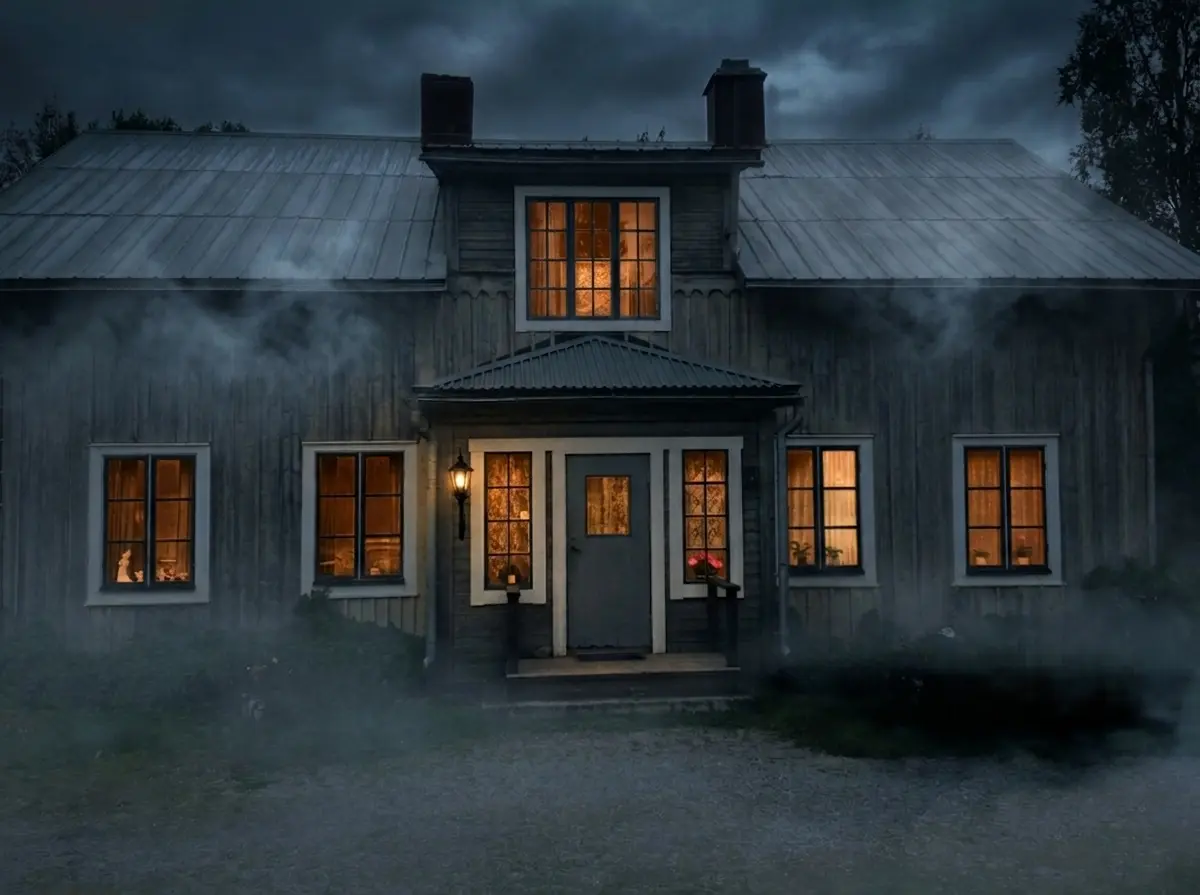
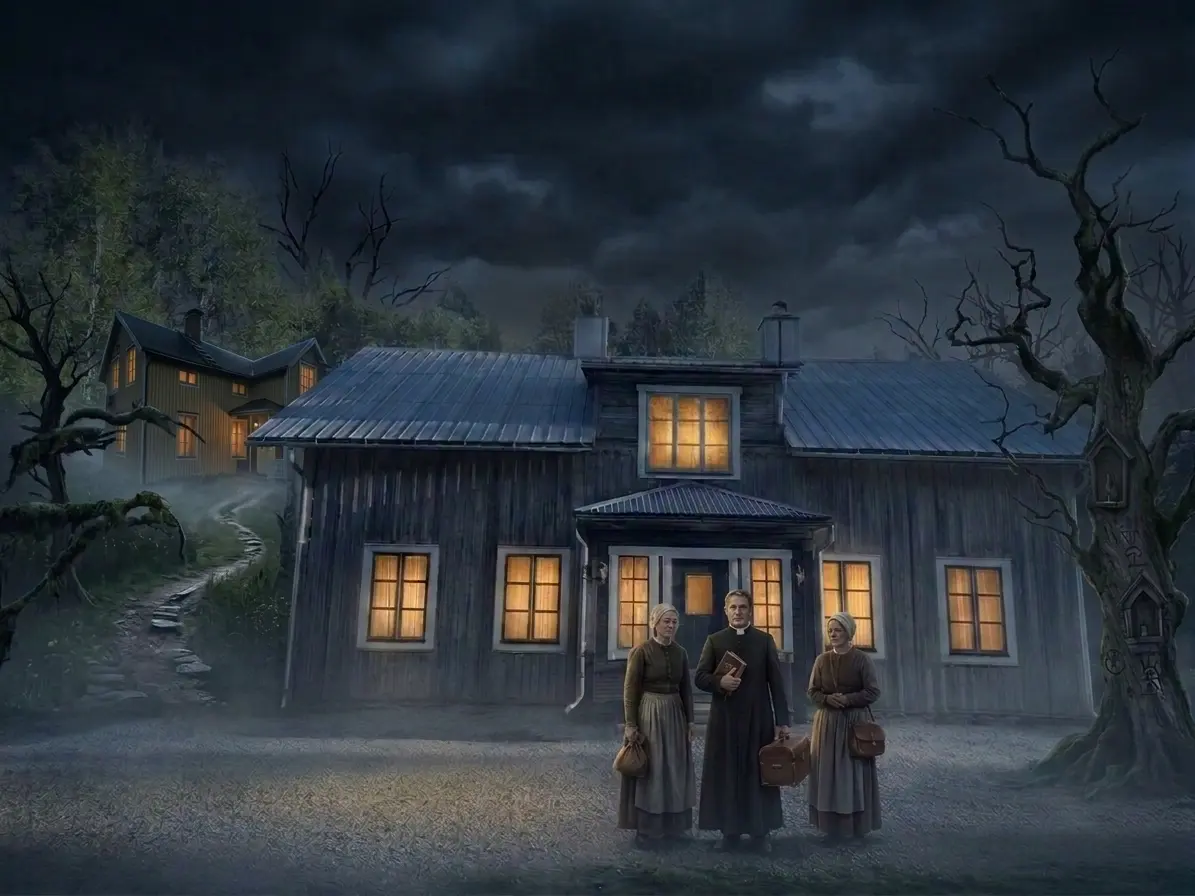
Frisläppning av Borgvattnet

diff --git a/src/components/TopNav.vue b/src/components/TopNav.vue
@@ -66,6 +66,7 @@ const menuItems = computed(() => [
     label: t("visited_places"),
     children: [
       { label: t("dropdown.mapView"), to: "/map-view" },
+      { label: t("dropdown.pageBorgvattnet"), to: "/borgvattnet" },
       { label: t("dropdown.pageBrahehus"), to: "/brahehus" },
       { label: t("dropdown.pageBarnmordarkorset"), to: "/barnmordarkorset" },
       { label: t("dropdown.pageAskhultsBy"), to: "/askhults-by" },

diff --git a/src/components/CompletedTasks.vue b/src/components/CompletedTasks.vue
@@ -9,6 +9,12 @@ const currentPage = ref(0);
 
 const items = [
   {
+    to: "/borgvattnet",
+    src: "/images/borgvattnet/Borgvattnet.webp",
+    alt: "Borgvattnet",
+    label: "borgvattnet",
+  },
+  {
     to: "/brahehus",
     src: "/images/brahehus/Brahehus.webp",
     alt: "Brahehus",
